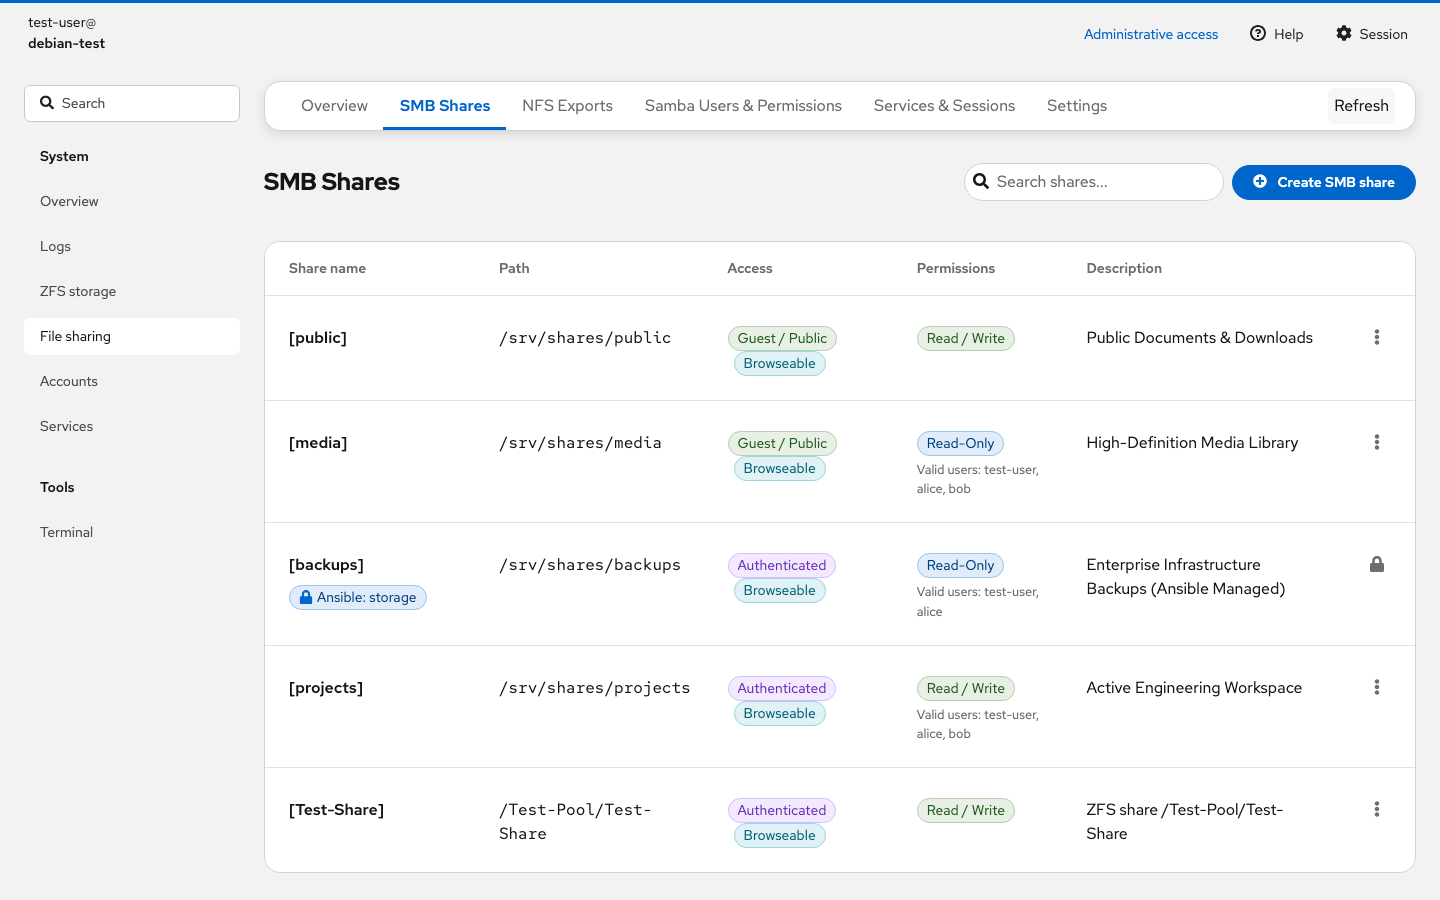
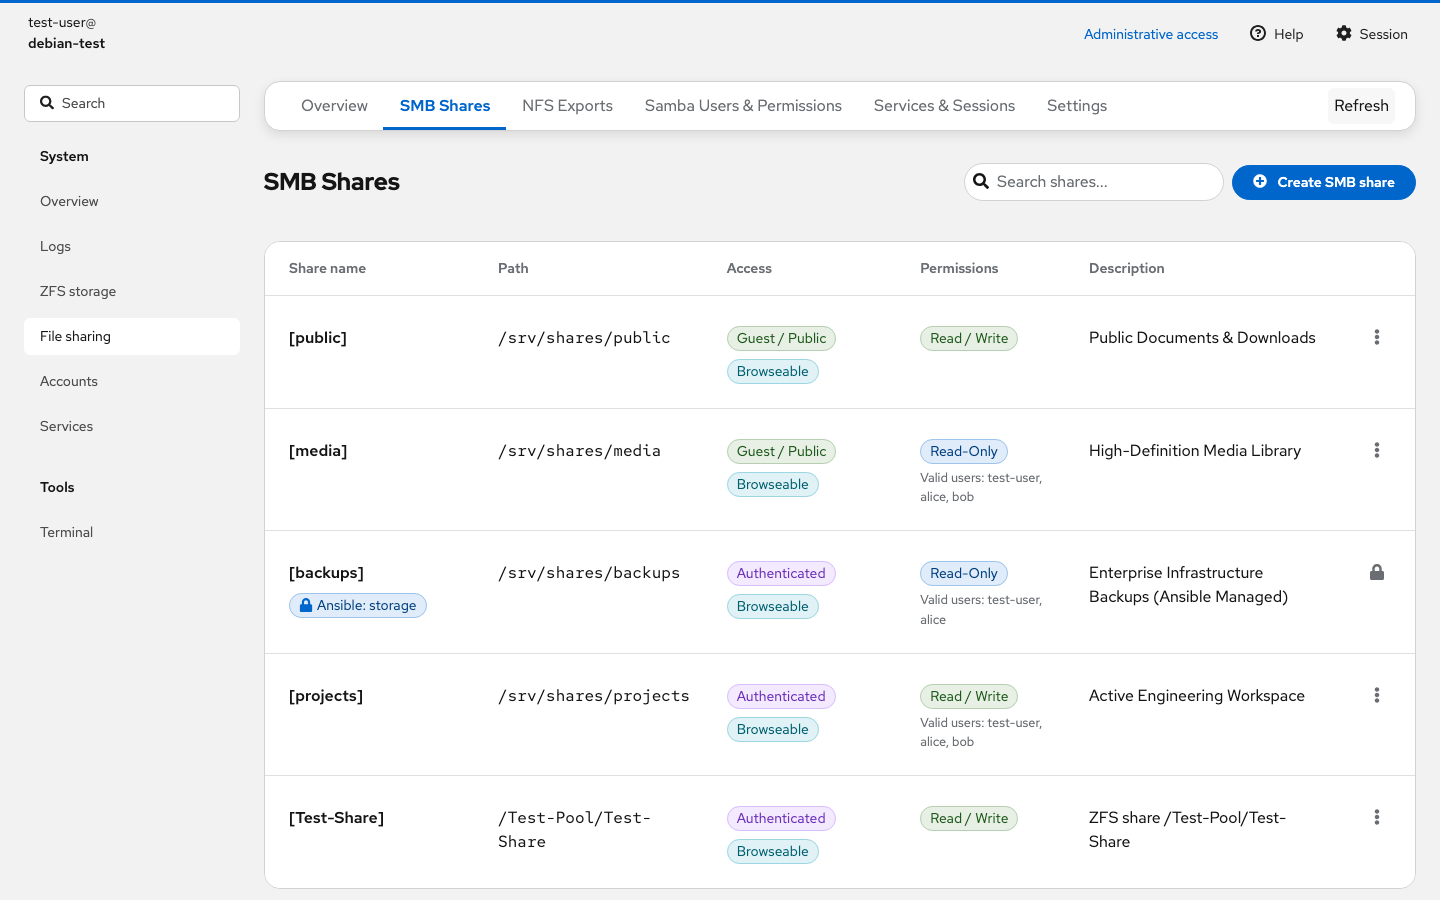
Fix zero snapshot badge borders and space SMB pills
Replace inline span styling with dedicated zfs-snapshot-zero class,
remove table span border overrides, and wrap SMB Access pills in Flex.

diff --git a/plugins/zfs-storage/src/components/DatasetsTab.tsx b/plugins/zfs-storage/src/components/DatasetsTab.tsx
@@ -207,42 +207,12 @@ export const DatasetsTab: React.FC<DatasetsTabProps> = ({
                           }
                         }}
                         aria-label={`View ${ds.snapshot_count} snapshots for ${ds.name}`}
-                        style={{
-                          display: "inline-flex",
-                          alignItems: "center",
-                          justifyContent: "center",
-                          borderRadius: "999px",
-                          backgroundColor: "rgba(146, 197, 249, 0.2)",
-                          color: "var(--zfs-tab-active-color)",
-                          padding: "2px 12px",
-                          fontSize: "0.85rem",
-                          fontWeight: 600,
-                          minWidth: "32px",
-                          height: "24px",
-                          cursor: "pointer",
-                          textDecoration: "none",
-                          border: "1px solid rgba(146, 197, 249, 0.4)",
-                          transition: "all 0.15s ease",
-                        }}
+                        className="zfs-snapshot-btn"
                       >
                         {ds.snapshot_count}
                       </button>
                     ) : (
-                      <span
-                        style={{
-                          display: "inline-flex",
-                          alignItems: "center",
-                          justifyContent: "center",
-                          borderRadius: "999px",
-                          backgroundColor: "var(--zfs-card-bg)",
-                          color: "var(--zfs-text-secondary)",
-                          padding: "2px 12px",
-                          fontSize: "0.85rem",
-                          border: "1px solid var(--zfs-card-border)",
-                          minWidth: "32px",
-                          height: "24px",
-                        }}
-                      >
+                      <span className="zfs-snapshot-zero">
                         0
                       </span>
                     )}

diff --git a/packages/common/src/styles/cockpit-theme.css b/packages/common/src/styles/cockpit-theme.css
@@ -432,13 +432,62 @@ h1, h2, h3, h4, h5, h6 {
   border-bottom: 1px solid var(--zfs-table-border) !important;
 }
 
-.pf-v5-c-table td strong,
-.pf-v5-c-table td span,
-.pf-v5-c-table__text,
-.pf-v5-c-table td .pf-v5-c-label,
-.pf-v5-c-table td .pf-v5-c-badge {
-  border-bottom: none !important;
-  text-decoration: none !important;
+/* Snapshot Pill Badges */
+.zfs-snapshot-btn {
+  display: inline-flex;
+  align-items: center;
+  justify-content: center;
+  border-radius: 999px !important;
+  background-color: rgba(0, 102, 204, 0.12);
+  color: #004080;
+  border: 1px solid rgba(0, 102, 204, 0.3);
+  padding: 2px 10px;
+  font-size: 0.85rem;
+  font-weight: 600;
+  min-width: 32px;
+  height: 24px;
+  cursor: pointer;
+  box-sizing: border-box;
+  text-decoration: none;
+  outline: none;
+  transition: all 0.15s ease;
+}
+
+.zfs-snapshot-btn:hover {
+  background-color: rgba(0, 102, 204, 0.22);
+  border-color: rgba(0, 102, 204, 0.5);
+}
+
+.zfs-snapshot-zero {
+  display: inline-flex;
+  align-items: center;
+  justify-content: center;
+  border-radius: 999px !important;
+  background-color: rgba(128, 128, 128, 0.12);
+  color: var(--zfs-text-secondary);
+  border: 1px solid var(--zfs-card-border);
+  padding: 2px 10px;
+  font-size: 0.85rem;
+  font-weight: 500;
+  min-width: 32px;
+  height: 24px;
+  box-sizing: border-box;
+}
+
+.pf-v5-theme-dark .zfs-snapshot-btn,
+.pf-v6-theme-dark .zfs-snapshot-btn,
+.theme-dark .zfs-snapshot-btn {
+  background-color: rgba(0, 102, 204, 0.25);
+  color: #73bcf7;
+  border: 1px solid rgba(115, 188, 247, 0.4);
+}
+
+.pf-v5-theme-dark .zfs-snapshot-zero,
+.pf-v6-theme-dark .zfs-snapshot-zero,
+.theme-dark .zfs-snapshot-zero {
+  background-color: rgba(128, 128, 128, 0.25);
+  color: var(--zfs-text-secondary);
+  border: 1px solid var(--zfs-card-border);
 }
 
 /* =========================================================

diff --git a/plugins/file-sharing/src/components/SmbSharesTab.tsx b/plugins/file-sharing/src/components/SmbSharesTab.tsx
@@ -255,12 +255,20 @@ export const SmbSharesTab: React.FC<SmbSharesTabProps> = ({
                         <code>{s.path || "—"}</code>
                       </Td>
                       <Td data-label="Access">
-                        {s.guest_ok ? (
-                          <Label color="green">Guest / Public</Label>
-                        ) : (
-                          <Label color="purple">Authenticated</Label>
-                        )}
-                        {s.browseable && <Label color="cyan" style={{ marginLeft: 6 }}>Browseable</Label>}
+                        <Flex spaceItems={{ default: "spaceItemsSm" }} alignItems={{ default: "alignItemsCenter" }}>
+                          <FlexItem>
+                            {s.guest_ok ? (
+                              <Label color="green">Guest / Public</Label>
+                            ) : (
+                              <Label color="purple">Authenticated</Label>
+                            )}
+                          </FlexItem>
+                          {s.browseable && (
+                            <FlexItem>
+                              <Label color="cyan">Browseable</Label>
+                            </FlexItem>
+                          )}
+                        </Flex>
                       </Td>
                       <Td data-label="Permissions">
                         <Label color={s.read_only ? "blue" : "green"}>
